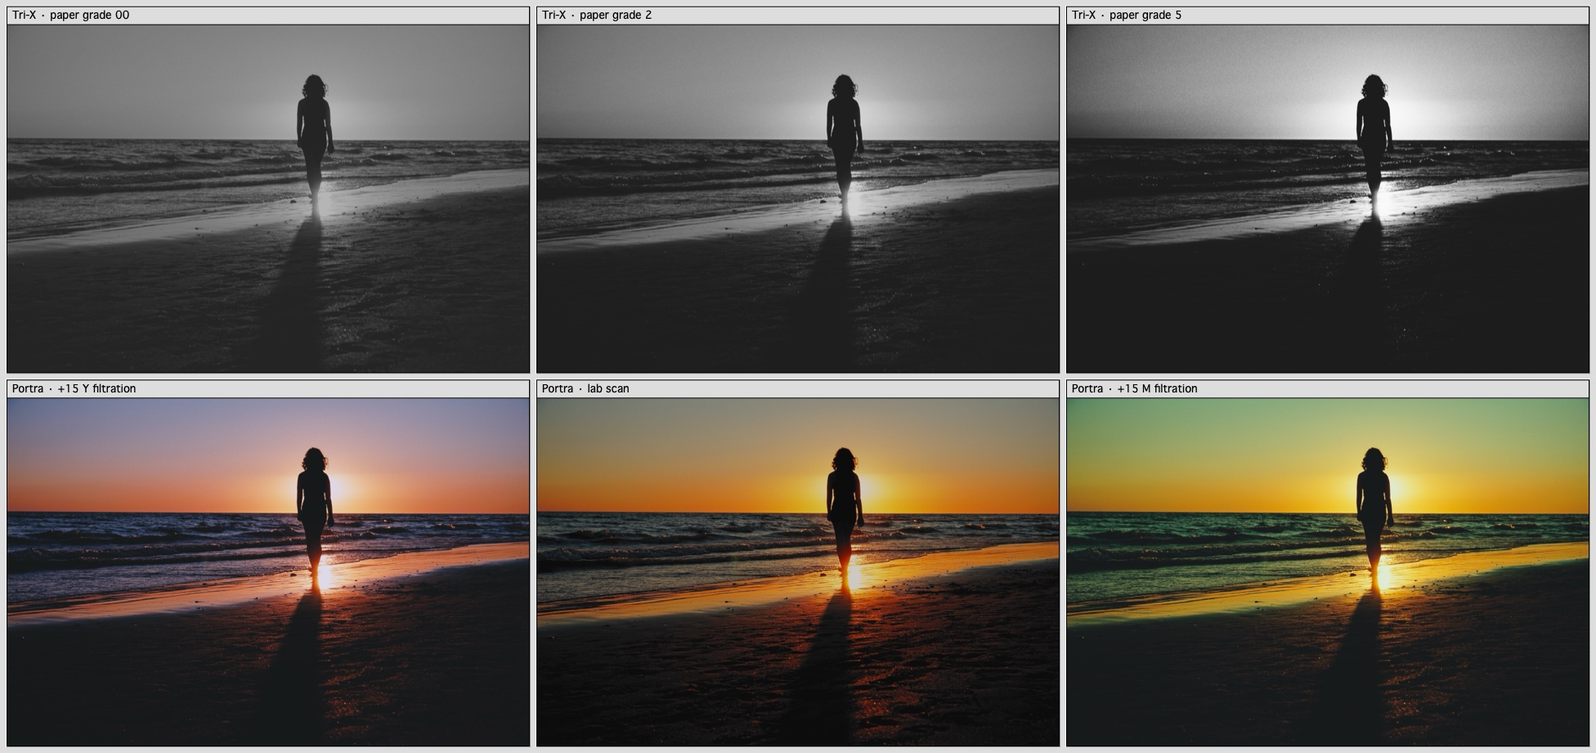
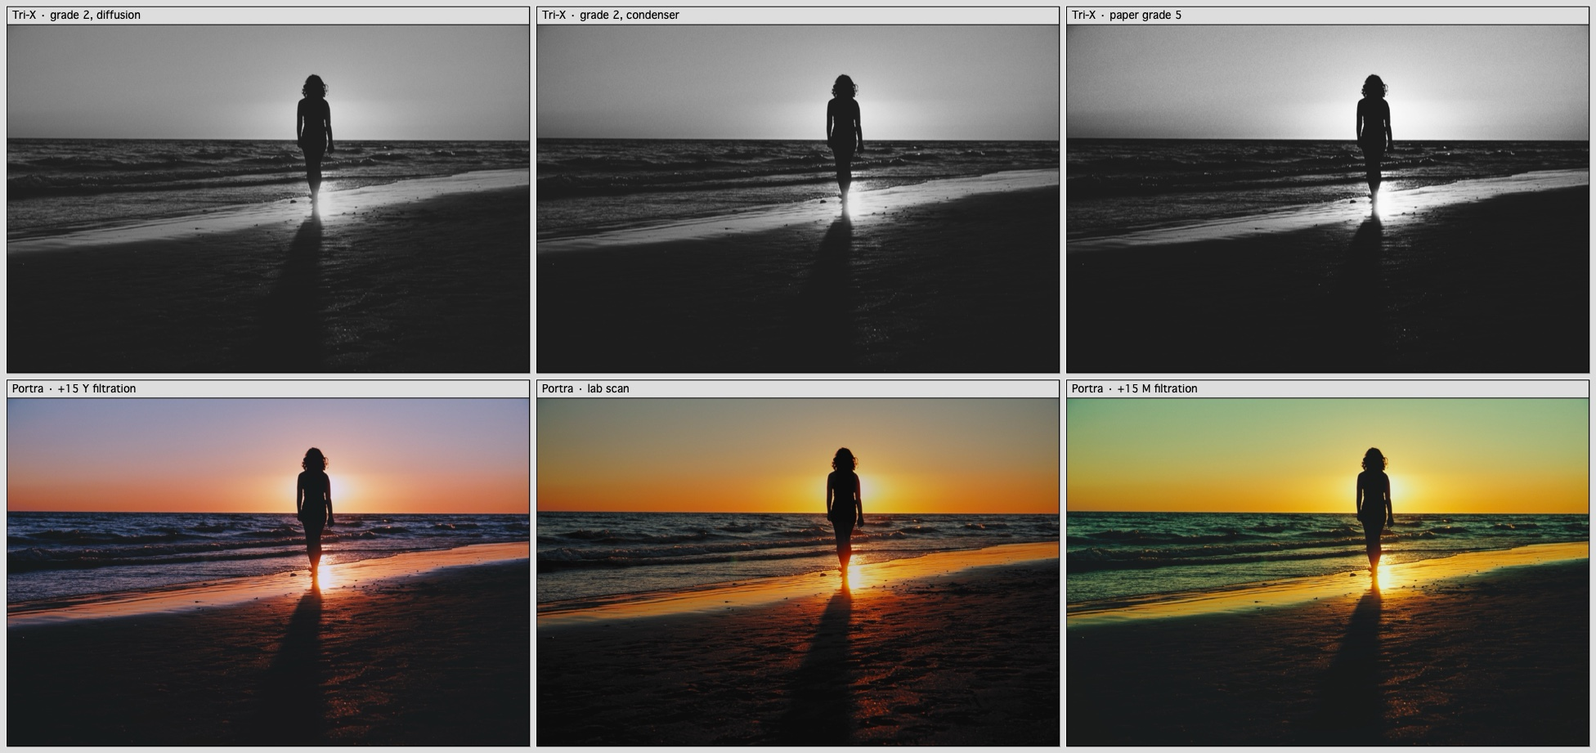
Enlarger optics: lens MTF, corner falloff, Callier effect; v1.5.0
Optical prints now form the paper exposure as light and pass it through
the enlarging lens (sigma 4.5 um at the negative) with cos^2 relative
illumination (0.84 at the corners), position-aware for crops. B&W adds a
diffusion/condenser choice: the condenser's Callier effect raises silver
printing density (Q ~1.28), about one paper grade harder.

diff --git a/Sources/FilmEngine/Developer.swift b/Sources/FilmEngine/Developer.swift
@@ -76,10 +76,13 @@ public struct DevelopSettings: Codable, Equatable {
     /// Years the finished print / slide (or, for scans, the negative) has been kept, and how.
     public var printAge: Float = 0
     public var keeping: Keeping = .album
+    /// Optical prints: enlarger light source (B&W: Callier effect) and the enlarging lens's corner falloff.
+    public var enlarger: Enlarger = .diffusion
+    public var enlargerFalloff = true
     public init() {}
 
     // Tolerant decoding: settings saved by older versions keep working when fields are added.
-    enum CodingKeys: String, CodingKey { case exposure, push, grain, halation, format, sceneLight, labCorrection, reciprocity, lab, agitation, ageYears, storage, filter, crossProcess, redscale, ccYellow, ccMagenta, printExposure, preflash, paperGrade, paperSurface, border, printAge, keeping }
+    enum CodingKeys: String, CodingKey { case exposure, push, grain, halation, format, sceneLight, labCorrection, reciprocity, lab, agitation, ageYears, storage, filter, crossProcess, redscale, ccYellow, ccMagenta, printExposure, preflash, paperGrade, paperSurface, border, printAge, keeping, enlarger, enlargerFalloff }
     public init(from decoder: Decoder) throws {
         let c = try decoder.container(keyedBy: CodingKeys.self)
         exposure = try c.decodeIfPresent(Float.self, forKey: .exposure) ?? 0
@@ -106,6 +109,8 @@ public struct DevelopSettings: Codable, Equatable {
         border = try c.decodeIfPresent(FilmBorder.self, forKey: .border) ?? .none
         printAge = try c.decodeIfPresent(Float.self, forKey: .printAge) ?? 0
         keeping = try c.decodeIfPresent(Keeping.self, forKey: .keeping) ?? .album
+        enlarger = try c.decodeIfPresent(Enlarger.self, forKey: .enlarger) ?? .diffusion
+        enlargerFalloff = try c.decodeIfPresent(Bool.self, forKey: .enlargerFalloff) ?? true
     }
 }
 
@@ -127,6 +132,9 @@ public struct DevelopContext {
     /// Treat every pixel as a large uniform area: no scatter, halation, grain or sharpening, and the
     /// uniform-area result of the spatial chemistry (DIR, exhaustion). Used to build colour LUTs.
     public var uniform = false
+    /// Size in pixels of the whole frame at this buffer's scale, when the buffer is a crop of it (for
+    /// position-dependent optics such as enlarger falloff). Nil: the buffer is the whole frame.
+    public var fullSize: SIMD2<Int>? = nil
 
     public init(fullLongSide: Int, originX: Int = 0, originY: Int = 0, seed: UInt32 = 1,
                 isDisplayReferred: Bool = false, sceneKelvin: Float? = nil, clipLevel: Float? = nil) {
@@ -210,6 +218,12 @@ public enum Developer {
             // keep mid grey on its density: balance = z(kp) + grey density
             let fm = Developer.logit(Developer.midGreyDensity / model.printRange)
             balance += SIMD3(repeating: fm / bwKp - fm / model.paperKp + settings.printExposure * log10(2))
+        }
+        // Condenser enlarger: the printer re-sets exposure so mid grey prints the same; the Callier effect
+        // then shows as extra contrast around it.
+        if stock.kind == .blackWhite && settings.enlarger == .condenser {
+            let dm = model.greyDensities(table: table, tone: tone, ev: filmEV + reciprocityEV).x
+            balance += SIMD3(repeating: settings.enlarger.printingDensity(dm) - dm)
         }
         let flash = stock.kind == .slide ? 0 : settings.preflash * 0.06
         // The printer re-sets exposure after flashing so mid grey prints the same (flash adds ≈ log(1+f) there).
@@ -298,11 +312,33 @@ public enum Developer {
         }
 
         // 8. Printing (negatives) / viewing (slides): spectral dyes -> paper -> D65 viewing.
+        if scanner == nil && stock.kind != .slide {
+            // Optical print: the light through the negative at the paper (log10 exposure per paper layer),
+            // then the enlarger's lens and falloff act on it, then the paper develops.
+            map3(&R, &G, &B) { r, g, b in
+                if isBW {
+                    r = -settings.enlarger.printingDensity(r); g = r; b = r
+                } else {
+                    let lp = model.negToPrint!.sample(SIMD3(r, g, b))
+                    r = lp.x; g = lp.y; b = lp.z
+                }
+            }
+            if !context.uniform {
+                EnlargerOptics.apply(&R, &G, &B, w: w, h: h, mono: isBW, pixelUm: pixelUm, format: settings.format,
+                                     context: context, falloff: settings.enlargerFalloff)
+            }
+            map3(&R, &G, &B) { r, g, b in
+                var c = model.renderPrint(SIMD3(r, g, b), balance: balance, neutral: neutral, flash: flash, bwKp: bwKp, fade: fade)
+                if !isBW { c = model.profile(c) }
+                r = c.x; g = c.y; b = c.z
+            }
+        } else {
         map3(&R, &G, &B) { r, g, b in
             var c = scanner?.render(SIMD3(r, g, b), balance: scanBal, fade: fade)
                 ?? model.render(SIMD3(r, isBW ? r : g, isBW ? r : b), balance: balance, neutral: neutral, flash: flash, bwKp: bwKp, fade: fade)
             if !isBW { c = model.profile(c) }
             r = c.x; g = c.y; b = c.z
+        }
         }
         var out = RGBImage(width: w, height: h, r: R, g: G, b: B)
 

diff --git a/Sources/FilmEngine/Enlarger.swift b/Sources/FilmEngine/Enlarger.swift
@@ -1,0 +1,84 @@
+import Foundation
+import simd
+
+// MARK: - The enlarger: light source, lens and easel
+
+/// Enlarger light source.
+public enum Enlarger: String, CaseIterable, Codable, Identifiable {
+    /// Colour / variable-contrast head with a mixing box: diffuse light.
+    case diffusion
+    /// Condenser head: a lamp focused through condenser lenses, so the light through the negative is nearly
+    /// collimated.
+    case condenser
+    public var id: String { rawValue }
+    public var label: String { self == .diffusion ? "Diffusion (colour head)" : "Condenser" }
+
+    /// Effective printing density of a silver negative (Callier effect).
+    ///
+    /// Silver grains scatter as well as absorb. Under diffuse light the scattered light still reaches the
+    /// lens; under collimated condenser light much of it is lost, so the negative prints denser, and more so
+    /// where there is more silver. The ratio of specular to diffuse density, Callier's Q, is about 1.3 for
+    /// typical negatives at medium density and lower in thin shadows. A condenser print is therefore
+    /// roughly a paper grade harder than a diffusion print, with crisper, more visible grain (grain clumps
+    /// gain contrast too). Dye images barely scatter (Q ≈ 1), which is why colour heads lose nothing.
+    @inline(__always) func printingDensity(_ d: Float) -> Float {
+        guard self == .condenser else { return d }
+        let dd = max(d, 0)
+        return d + 0.28 * dd * (1 - exp(-dd / 0.4))
+    }
+}
+
+enum EnlargerOptics {
+    /// Enlarging-lens blur at the negative plane (σ): MTF 50 % near 45 lp/mm, a good 6-element lens at f/8,
+    /// including the small focus error across the easel.
+    static let lensBlurUm: Float = 4.5
+    /// The lens's focal length is about the negative diagonal, and at typical enlargements (×5–×10) the
+    /// negative sits about 1.12 focal lengths in front of it.
+    static let objectDistance: Float = 1.125
+
+    /// Lens blur and illumination falloff, applied to the paper's exposure (linear light) given as log10
+    /// exposures per paper layer.
+    ///
+    /// Falloff: light reaching the paper corners passes the lens obliquely. The cos⁴θ law would give
+    /// about 0.5 stop less exposure at a 35 mm frame's corners; enlarging lenses, designed for an even
+    /// field, measure about 80–85 % of the centre's illumination there at f/8, so relative illumination is
+    /// taken as cos²θ (0.84 at the corner, a quarter stop). On a negative-to-positive print that means
+    /// *lighter* corners, the opposite of camera vignetting, and why printers routinely burned them in.
+    static func apply(_ R: inout [Float], _ G: inout [Float], _ B: inout [Float], w: Int, h: Int, mono: Bool,
+                      pixelUm: Float, format: FilmFormat, context: DevelopContext, falloff: Bool) {
+        let n = w * h
+        let blur = lensBlurUm / pixelUm
+        guard blur > 0.3 || falloff else { return }
+        let full = context.fullSize ?? SIMD2(w, h)
+        let longPx = Float(max(full.x, full.y)), shortPx = Float(min(full.x, full.y))
+        let longMM = format.longSideMM, shortMM = longMM * shortPx / max(longPx, 1)
+        let diag = (longMM * longMM + shortMM * shortMM).squareRoot()
+        let u = objectDistance * diag
+        let mmPerPx = pixelUm / 1000
+        let cx = Float(full.x) / 2, cy = Float(full.y) / 2
+        func toLinear(_ v: inout [Float]) {
+            v.withUnsafeMutableBufferPointer { vp in
+                let V = vp.baseAddress!
+                Parallel.rows(h) { rows in
+                    for y in rows {
+                        let dy = (Float(y + context.originY) + 0.5 - cy) * mmPerPx
+                        for x in 0..<w {
+                            let i = y * w + x
+                            var e = pow(10, V[i])
+                            if falloff {
+                                let dx = (Float(x + context.originX) + 0.5 - cx) * mmPerPx
+                                let t = (dx * dx + dy * dy) / (u * u)
+                                e /= 1 + t                     // cos²θ with tan²θ = t
+                            }
+                            V[i] = e
+                        }
+                    }
+                }
+            }
+            if blur > 0.3 { v = Blur.gaussian(v, w, h, sigma: blur) }
+            for i in 0..<n { v[i] = log10(max(v[i], 1e-12)) }
+        }
+        toLinear(&R)
+        if mono { G = R; B = R } else { toLinear(&G); toLinear(&B) }
+    }
+}

diff --git a/Sources/FilmEngine/FilmModel.swift b/Sources/FilmEngine/FilmModel.swift
@@ -351,7 +351,26 @@ final class FilmModel {
                                   flash: Float = 0, bwKp: Float = 0, fade: Fade? = nil) -> SIMD3<Float> {
         switch stock.kind {
         case .colorNegative:
-            var lp = negToPrint!.sample(d)
+            return renderPrint(negToPrint!.sample(d), balance: balance, neutral: n, flash: flash, fade: fade)
+        case .slide:
+            // Balance scales density, so clear film (D = 0) always stays clear.
+            let dd = SIMD3(d.x + n.offset(0, d.x), d.y + n.offset(1, d.y), d.z + n.offset(2, d.z))
+            var ds = simd_max(dd * SIMD3(exp(balance.x), exp(balance.y), exp(balance.z)), .zero)
+            if let f = fade { ds = f.apply(ds) }
+            return display!.sample(ds)
+        case .blackWhite:
+            return renderPrint(SIMD3(repeating: -d.x), balance: balance, flash: flash, bwKp: bwKp, fade: fade)
+        }
+    }
+
+    /// Print from the paper's log exposure per layer, before the printer's balance: for colour negatives
+    /// `negToPrint` of the negative densities, for B&W minus the (effective printing) density. Splitting
+    /// here lets the enlarger's optics act on the light at the paper.
+    @inline(__always) func renderPrint(_ lp0: SIMD3<Float>, balance: SIMD3<Float>, neutral n: Neutralizer = .identity,
+                                       flash: Float = 0, bwKp: Float = 0, fade: Fade? = nil) -> SIMD3<Float> {
+        switch stock.kind {
+        case .colorNegative:
+            var lp = lp0
             let k = lp + (balance - n.refBalance)
             lp = SIMD3(lp.x + n.offset(0, k.x), lp.y + n.offset(1, k.y), lp.z + n.offset(2, k.z)) + balance
             if flash > 0 {
@@ -370,14 +389,10 @@ final class FilmModel {
             if let f = fade { dp = f.apply(dp) }
             return display!.sample(dp)
         case .slide:
-            // Balance scales density, so clear film (D = 0) always stays clear.
-            let dd = SIMD3(d.x + n.offset(0, d.x), d.y + n.offset(1, d.y), d.z + n.offset(2, d.z))
-            var ds = simd_max(dd * SIMD3(exp(balance.x), exp(balance.y), exp(balance.z)), .zero)
-            if let f = fade { ds = f.apply(ds) }
-            return display!.sample(ds)
+            return .zero
         case .blackWhite:
             let kp = bwKp > 0 ? bwKp : paperKp
-            var lp = balance.x - d.x
+            var lp = balance.x + lp0.x
             if flash > 0 { lp = log10(pow(10, lp) + flash * pow(10, Developer.logit(Developer.midGreyDensity / range) / kp)) }
             var dp = range * Developer.logistic(kp * lp)
             if let f = fade { dp = f.silver(dp) }

diff --git a/Sources/Emulsion98/MainView.swift b/Sources/Emulsion98/MainView.swift
@@ -451,6 +451,15 @@ struct Inspector: View {
                             $0 < 0.01 ? "Off" : String(format: "%.0f%%", $0 * 100)
                         }
                         .balloon("Pre-flash. A faint, even exposure of the paper before printing, so the brightest highlight detail of a dense negative prints instead of staying paper-white.")
+                        if lib.stock.kind == .blackWhite {
+                            PlatinumPopup(title: "Enlarger:", selection: $lib.settings.enlarger,
+                                          options: Enlarger.allCases.map { ($0, $0.label) })
+                                .balloon("Enlarger light. A condenser's focused light is scattered away by the silver grains (the Callier effect), so the negative prints denser where it has more silver: about a grade harder, with crisper grain. A diffusion head is gentler.")
+                        }
+                        if lib.settings.lab == .print || lib.stock.kind == .blackWhite {
+                            Toggle("Enlarger lens falloff", isOn: $lib.settings.enlargerFalloff).toggleStyle(PlatinumCheckboxStyle())
+                                .balloon("Light falloff. Less light reaches the paper's corners through the enlarging lens, so corners print slightly lighter — the opposite of camera vignetting. Printers burned them in by hand.")
+                        }
                     }
                 }
             }

diff --git a/Sources/Emulsion98PhotosExt/PhotoEditingViewController.swift b/Sources/Emulsion98PhotosExt/PhotoEditingViewController.swift
@@ -126,7 +126,8 @@ final class ExtModel: ObservableObject {
                                     "filter": s.filter.rawValue, "crossProcess": "\(s.crossProcess)", "redscale": "\(s.redscale)",
                                     "ccYellow": "\(s.ccYellow)", "ccMagenta": "\(s.ccMagenta)", "printExposure": "\(s.printExposure)",
                                     "preflash": "\(s.preflash)", "paperGrade": "\(s.paperGrade)", "paperSurface": s.paperSurface.rawValue,
-                                    "printAge": "\(s.printAge)", "keeping": s.keeping.rawValue])) ?? Data()
+                                    "printAge": "\(s.printAge)", "keeping": s.keeping.rawValue,
+                                    "enlarger": s.enlarger.rawValue, "falloff": "\(s.enlargerFalloff)"])) ?? Data()
     }
 
     func restore(_ data: Data) {
@@ -154,6 +155,8 @@ final class ExtModel: ObservableObject {
         if let v = d["paperSurface"].flatMap(PaperSurface.init(rawValue:)) { s.paperSurface = v }
         if let v = d["printAge"].flatMap(Float.init) { s.printAge = v }
         if let v = d["keeping"].flatMap(Keeping.init(rawValue:)) { s.keeping = v }
+        if let v = d["enlarger"].flatMap(Enlarger.init(rawValue:)) { s.enlarger = v }
+        if let v = d["falloff"] { s.enlargerFalloff = v == "true" }
         settings = s
         if let id = d["stock"], FilmStock.stock(id: id) != nil { stockID = id }
     }

diff --git a/Sources/emulsion-cli/main.swift b/Sources/emulsion-cli/main.swift
@@ -42,6 +42,8 @@ if let v = opt("--border"), let b = FilmBorder(rawValue: v) { settings.border = 
 if let v = opt("--surface"), let b = PaperSurface(rawValue: v) { settings.paperSurface = b }
 if let v = opt("--print-age").flatMap(Float.init) { settings.printAge = v }
 if let v = opt("--keeping"), let k = Keeping(rawValue: v) { settings.keeping = k }
+if let v = opt("--enlarger"), let k = Enlarger(rawValue: v) { settings.enlarger = k }
+if args.contains("--no-falloff") { settings.enlargerFalloff = false; args.removeAll { $0 == "--no-falloff" } }
 let kelvinOpt = opt("--kelvin").flatMap(Float.init)
 let timeOpt = opt("--time").flatMap(Double.init)
 
@@ -113,7 +115,7 @@ case "lutcheck":
     // lutcheck <image> <stock>: LUT applied to the image vs a full develop without grain/halation
     let photo = try PhotoIO.load(URL(fileURLWithPath: args[1]), maxLongSide: 900)
     let st = stocks(args[2])[0]
-    var flat = settings; flat.grain = 0; flat.halation = 0
+    var flat = settings; flat.grain = 0; flat.halation = 0; flat.enlargerFalloff = false   // falloff is spatial
     let lut = LUTExport.cube(stock: st, settings: flat)
     var ctx = photo.context(seed: 1); ctx.isDisplayReferred = true
     let dev = Developer.develop(photo.image, stock: st, settings: flat, context: ctx)

diff --git a/Sources/Emulsion98/Library.swift b/Sources/Emulsion98/Library.swift
@@ -366,7 +366,8 @@ final class Library: ObservableObject {
                                                         "ccYellow": "\(settings.ccYellow)", "ccMagenta": "\(settings.ccMagenta)",
                                                         "printExposure": "\(settings.printExposure)", "preflash": "\(settings.preflash)",
                                                         "paperGrade": "\(settings.paperGrade)", "paperSurface": settings.paperSurface.rawValue,
-                                                        "printAge": "\(settings.printAge)", "keeping": settings.keeping.rawValue])) ?? Data()
+                                                        "printAge": "\(settings.printAge)", "keeping": settings.keeping.rawValue,
+                                                        "enlarger": settings.enlarger.rawValue, "falloff": "\(settings.enlargerFalloff)"])) ?? Data()
             for p in list {
                 status = "Developing \(p.name) in \(stock.displayName)… (\(done + 1) of \(list.count))"
                 let base = p.url.deletingPathExtension().lastPathComponent

diff --git a/Sources/Emulsion98PhotosExt/ExtUI.swift b/Sources/Emulsion98PhotosExt/ExtUI.swift
@@ -117,6 +117,12 @@ struct ExtRoot: View {
                         PlatinumSlider(title: "Pre-flash", value: $m.settings.preflash, range: 0...1, defaultValue: 0) {
                             $0 < 0.01 ? "Off" : String(format: "%.0f%%", $0 * 100)
                         }
+                        if m.stock.kind == .blackWhite {
+                            PlatinumPopup(title: "Enlarger:", selection: $m.settings.enlarger, options: Enlarger.allCases.map { ($0, $0.label) })
+                        }
+                        if m.settings.lab == .print || m.stock.kind == .blackWhite {
+                            Toggle("Enlarger lens falloff", isOn: $m.settings.enlargerFalloff).toggleStyle(PlatinumCheckboxStyle())
+                        }
                     }
                     PlatinumPopup(title: "Agitation:", selection: $m.settings.agitation, options: Agitation.allCases.map { ($0, $0.label) })
                     PlatinumSlider(title: "Film age", value: $m.settings.ageYears, range: 0...30, defaultValue: 0) {

diff --git a/Sources/FilmEngine/PhotoIO.swift b/Sources/FilmEngine/PhotoIO.swift
@@ -21,9 +21,14 @@ public struct LoadedPhoto {
     public var capture: CaptureInfo
 
     public func context(fullLongSide: Int? = nil, originX: Int = 0, originY: Int = 0, seed: UInt32) -> DevelopContext {
-        DevelopContext(fullLongSide: fullLongSide ?? image.longSide, originX: originX, originY: originY, seed: seed,
-                       isDisplayReferred: isDisplayReferred, sceneKelvin: capture.asShotKelvin)
-            .with { $0.exposureTime = capture.exposureTime }
+        let long = fullLongSide ?? image.longSide
+        let s = Float(long) / Float(max(image.longSide, 1))
+        return DevelopContext(fullLongSide: long, originX: originX, originY: originY, seed: seed,
+                              isDisplayReferred: isDisplayReferred, sceneKelvin: capture.asShotKelvin)
+            .with {
+                $0.exposureTime = capture.exposureTime
+                $0.fullSize = SIMD2(Int((Float(image.width) * s).rounded()), Int((Float(image.height) * s).rounded()))
+            }
     }
 }
 

diff --git a/Sources/Emulsion98/Retro.swift b/Sources/Emulsion98/Retro.swift
@@ -808,7 +808,7 @@ struct AboutBox: View {
                             .balloon("The Happy Camera. It is very pleased to see you. It likes being clicked.")
                         VStack(alignment: .leading, spacing: 4) {
                             Text("Emulsion 98").font(Plat.font(20, bold: true)).foregroundStyle(Plat.ink)
-                            Text("Version 1.4 · Darkroom Edition").font(Plat.font(11)).foregroundStyle(Plat.dark)
+                            Text("Version 1.5 · Darkroom Edition").font(Plat.font(11)).foregroundStyle(Plat.dark)
                             Rectangle().fill(Plat.shade).frame(height: 1).padding(.vertical, 4)
                             infoRow("Built-in Memory:", ByteCountFormatter.string(fromByteCount: Int64(ProcessInfo.processInfo.physicalMemory), countStyle: .memory))
                             infoRow("Film stocks:", "\(FilmStock.catalog.count) emulsions")

diff --git a/Sources/Emulsion98/Extras.swift b/Sources/Emulsion98/Extras.swift
@@ -84,6 +84,7 @@ struct GetInfoBox: View {
         if abs(s.printExposure) >= 0.02 { dev.append(String(format: "print %+.2f stops", s.printExposure)) }
         if s.preflash >= 0.01 { dev.append(String(format: "pre-flash %.0f%%", s.preflash * 100)) }
         if s.ageYears >= 0.5 { dev.append(String(format: "%.0f years expired (%@)", s.ageYears, s.storage.label.lowercased())) }
+        if lib.stock.kind == .blackWhite && s.enlarger == .condenser { dev.append("condenser enlarger") }
         if s.printAge >= 0.5 { dev.append(String(format: "%.0f years old, %@", s.printAge, s.keeping.label.lowercased())) }
         r.append(("Development:", dev.joined(separator: " · ")))
         return r

diff --git a/README.md b/README.md
@@ -86,6 +86,7 @@ Most "film filters" are a colour lookup table and a grain overlay. **Emulsion 98
 | **Agitation** | Continuous, intermittent or stand development: developer exhaustion, edge effects, compensation and bromide drag. |
 | **Expired film** | Per-layer speed loss, chemical fog and flatter contrast by storage (freezer to hot car), plus speed-dependent radiation fog. |
 | **Formats** | Half frame, 35 mm, 6×4.5, 6×6, 6×7 and 4×5 sheet film. A bigger negative means finer grain and less halation relative to the picture. |
+| **Enlarger** | The enlarging lens's blur (about 45 lp/mm at 50 % MTF) and corner falloff (corners get about 84 % of the light, so they print lighter, the opposite of camera vignetting). For B&W, a diffusion or condenser head: the condenser's Callier effect prints silver negatives about a grade harder, with crisper grain. |
 | **Paper surface** | Glossy, lustre or matte. Surface reflection sets the print's deepest black (about D-max 2.3, 2.0 and 1.6). |
 | **Borders** | A filed negative carrier (rough black rebate on a white paper margin), or a full-frame scan of the strip with ISO 35 mm perforations (4.75 mm pitch) and edge printing. Added when you develop. |
 | **Archival fading** | The finished print or slide ages for up to 80 years, in the dark or on display. Each dye fades at its own rate and leftover couplers turn the whites yellow, so old album prints go red, Ektachrome goes magenta, cine prints go pink and framed prints go cyan. For lab scans, the stored negative fades and is scanned as it is now. |
@@ -93,8 +94,8 @@ Most "film filters" are a colour lookup table and a grain overlay. **Emulsion 98
 | **Scene light** | The film sees the real colour temperature from the RAW's white balance, and the lab corrects only part of it. |
 
 <p align="center">
-  <img src="docs/images/printing.jpg" alt="Darkroom printing simulation: Tri-X on multigrade paper at grades 00, 2 and 5; Portra 400 printed with +15 yellow and +15 magenta filtration, and as a lab scan" width="100%">
-  <br><sub>Printing: Tri-X on variable-contrast paper at grades 00, 2 and 5 (top). Portra 400 with +15 Y and +15 M enlarger filtration, and as a lab scan (bottom).</sub>
+  <img src="docs/images/printing.jpg" alt="Darkroom printing simulation: Tri-X at grade 2 under a diffusion and a condenser enlarger, and at grade 5; Portra 400 printed with +15 yellow and +15 magenta filtration, and as a lab scan" width="100%">
+  <br><sub>Printing: Tri-X at grade 2 under a diffusion head and a condenser (the Callier effect), and at grade 5 (top). Portra 400 with +15 Y and +15 M enlarger filtration, and as a lab scan (bottom).</sub>
 </p>
 
 <p align="center">
@@ -166,6 +167,8 @@ Emulsion scatter uses a long-tailed PSF (a 4-Gaussian fit of the Frieser MTF 1/(
 - **Optical print:** a 3200 K tungsten-halogen enlarger behind a KG3 heat filter shines through the negative's dye spectra and orange mask onto the measured paper sensitivities (Kodak Portra Endura, Fujifilm Crystal Archive Type II, or Kodak 2383 for cine stocks). Printer lights are solved automatically, as a lab does.
 - **Printer's controls:** dichroic filtration acts on the paper's log exposures (+Y removes blue light, so the print goes bluer), and print exposure is in stops. **Pre-flash** adds a uniform sub-threshold exposure (a fraction of the paper's mid-scale exposure) that lifts dense highlights out of the paper's toe, and the printer re-sets exposure so mid grey is unchanged.
 - **Variable-contrast B&W paper:** a blue-only hard emulsion and a green-sensitised soft emulsion (which keeps its native blue sensitivity), exposed by the enlarger lamp through Ilford-style grade filters or colour-head Y/M. The spectrally computed blue share of the exposure maps to the ISO paper range (R ≈ 180 at grade 00 to ≈ 50 at grade 5). Grade 2 reproduces the classic graded print.
+- **Enlarger:** the paper's exposure is formed as light, so the enlarger acts on it before the paper responds. The enlarging lens blurs by σ ≈ 4.5 µm at the negative (MTF 50 % near 45 lp/mm, a good 6-element lens at f/8). Its relative illumination falls as cos²θ, about 84 % at the corners with the usual lens (focal length ≈ negative diagonal), which is what good enlarging lenses measure, so corners print lighter. Crops are placed in the full frame, so 1:1 views match the full print.
+- **Callier effect (B&W):** silver grains scatter light as well as absorb it. A condenser head's collimated light loses the scattered part, so the effective printing density rises to D·(1 + 0.28·(1 − e<sup>−D/0.4</sup>)): Q ≈ 1.28 at medium and high density, less in thin shadows. The printer re-sets exposure for mid grey, and the print comes out about one grade harder (measured: between grade 3 and 3¼) with crisper grain. Dye images barely scatter, so colour heads and colour prints are unaffected.
 - **Lab scan:** narrow-band RGB LEDs (650 / 545 / 450 nm), per-channel inversion against a grey scale, a scanner tone curve and a colour boost. Then the scanner's optics (≈ 3.5 µm blur, a 4000 dpi-class MTF) and the fixed unsharp mask minilabs apply (9 µm radius, on log luminance so it adds no colour fringes), which gives scans their crisp, grain-forward look.
 - **Viewing:** dyes are integrated under D50 (ISO 3664), or a ≈ 5400 K projector for 2383, and Bradford-adapted to the paper or base white. First-surface reflection and glare are included (0.4 % for glossy paper), which limits print blacks to a visual density of about 2.3–2.5.
 </details>
@@ -274,6 +277,7 @@ swift build -c release
 .build/release/emulsion-cli develop photo.RW2 hp5 out/ --grade 4 --preflash 0.5           # multigrade paper; also --cc-y 10 --cc-m 5 --print-ev 0.2
 .build/release/emulsion-cli develop photo.RW2 portra400 out/ --border fullFrame --format mf67 --surface lustre
 .build/release/emulsion-cli develop photo.RW2 e100 out/ --print-age 40 --keeping album        # archival fading (album | framed)
+.build/release/emulsion-cli develop photo.RW2 trix400 out/ --enlarger condenser --no-falloff   # Callier effect; even illumination
 .build/release/emulsion-cli sheet photo.RW2 sheet.jpg                  # contact sheet of every stock
 .build/release/emulsion-cli crop photo.RW2 cinestill800t c.jpg         # 1:1 crop
 .build/release/emulsion-cli diag portra400                             # ColorChecker accuracy
